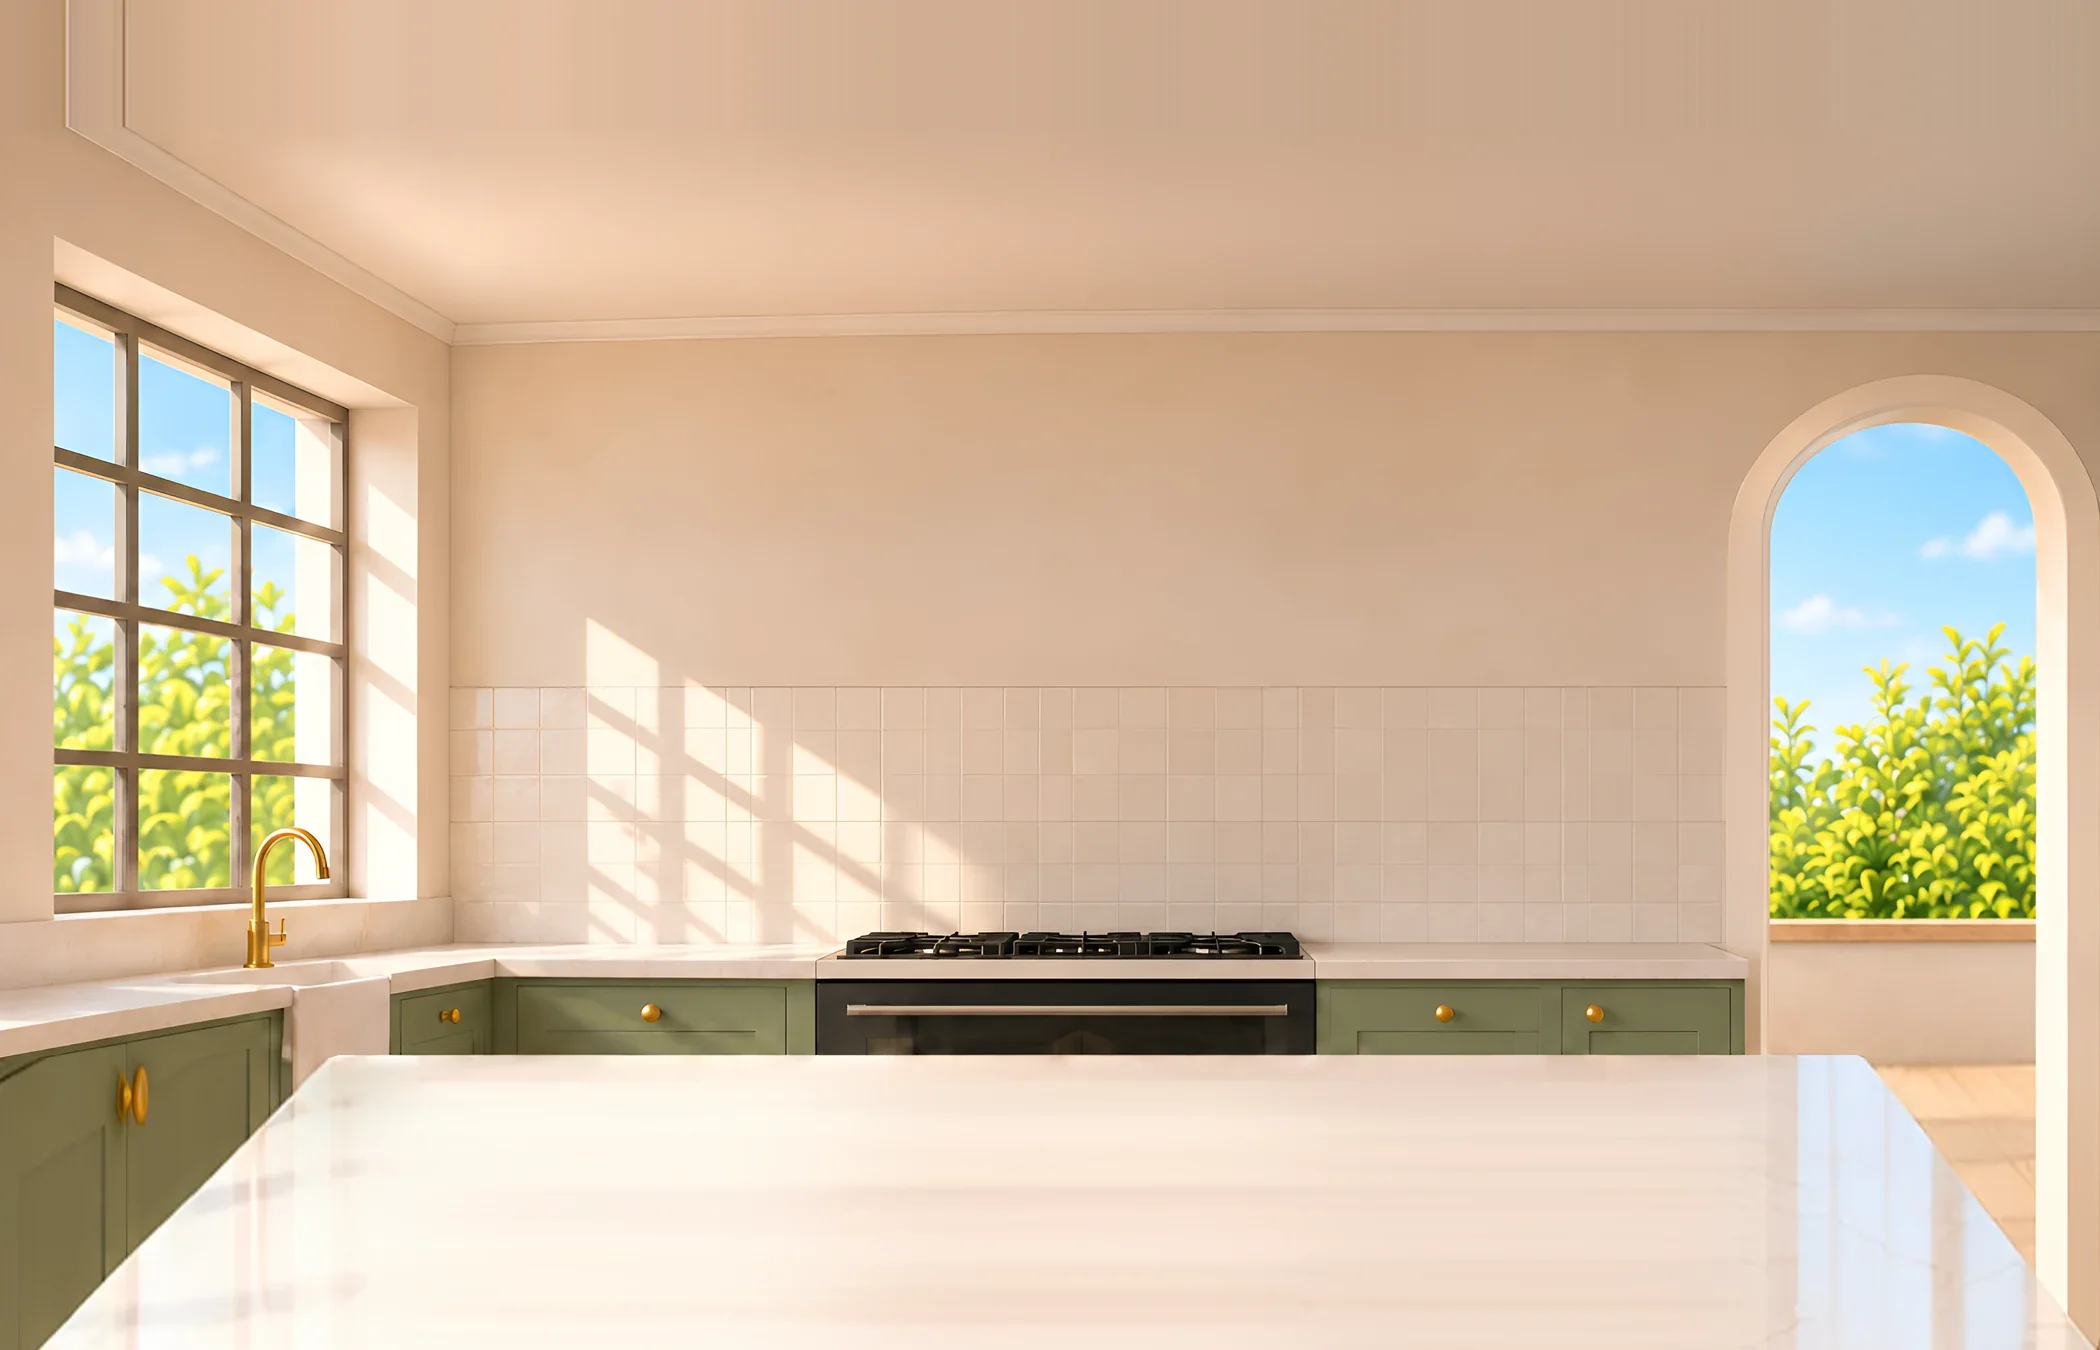
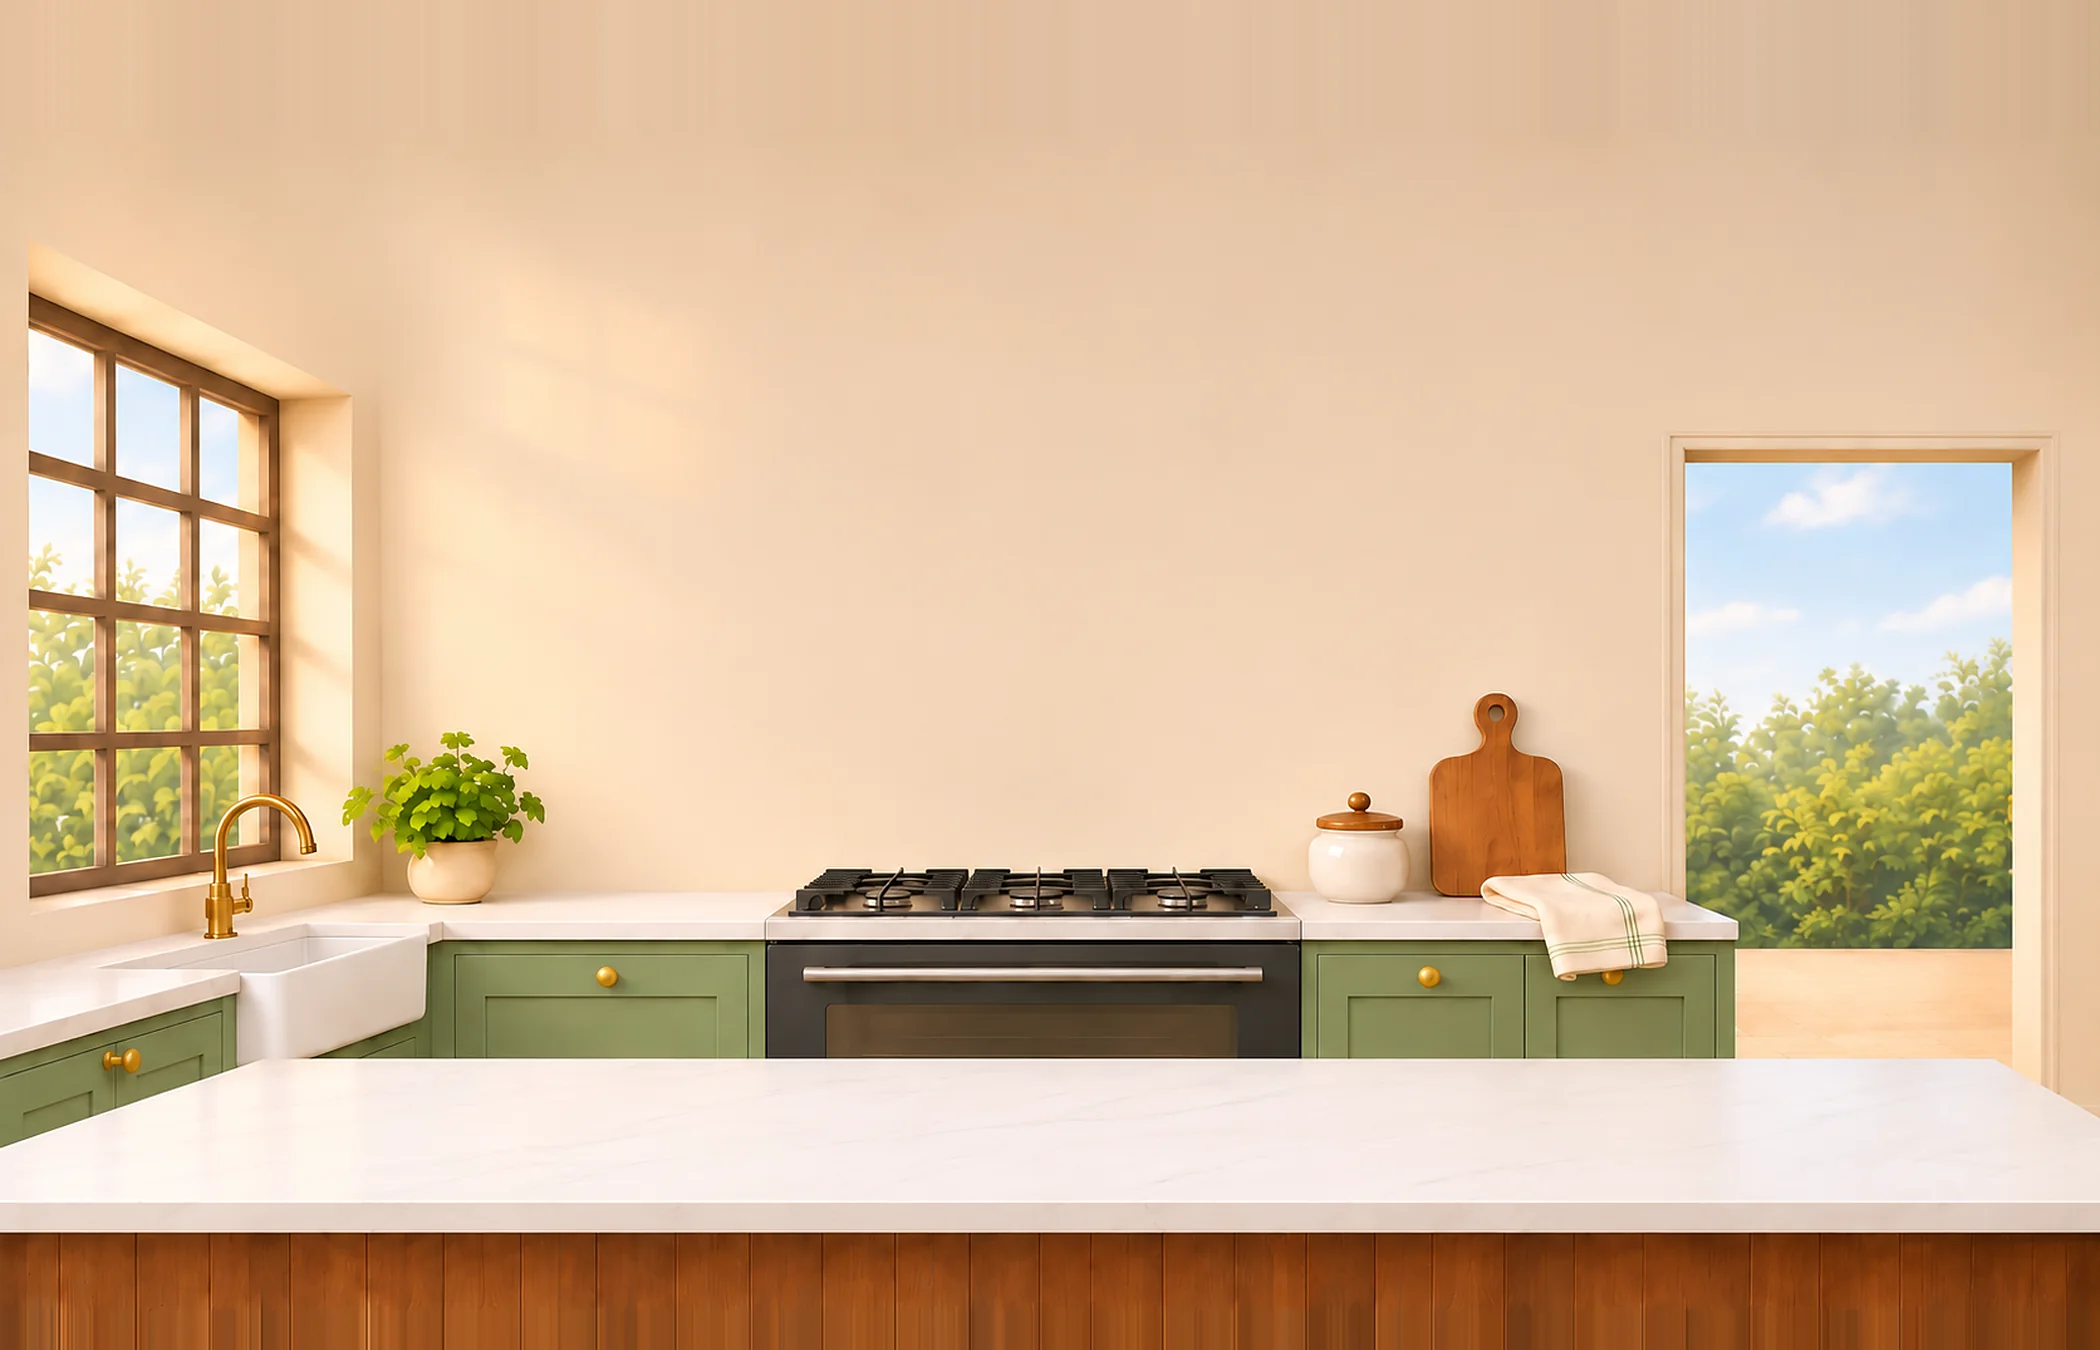
s19-serve2: the serving kitchen on its real art: KG as the tall painting (2100x1575, LANCZOS and a light sharpen, its island's back edge measured at core y 608.5), KO and KS cut as the pair, one walnut tray per person cut from tray-src, each dish at its true size class (plate, bowl, glass), every ga
Claude-Session: https://claude.ai/code/session_014xb3kSEqyUTbvHCABDzeLo

diff --git a/js/cook/serve.js b/js/cook/serve.js
@@ -7,15 +7,20 @@
  *                       top fills the lower half, the faces still in view at the top.
  *
  * Either art drops in, chosen in the settings (data/cook.json art.serve.mode, or ?kitchen=tall|two for a look):
- *   "tall"  one tall painting (KB), scrolled: it is the kitchen's picture (bg-service), its ordering view at `core`;
+ *   "tall"  one tall painting (KG), scrolled: it is the kitchen's picture (bg-service), its ordering view at `core`;
  *   "two"   two pictures, the ordering view (KO, bg-service) and the serving view (KS), crossfaded as the camera glides.
  * Every picture is cut to the kitchen master's geometry: 1 px = 1 design px, the ordering view's 1600x900 at `core` (250, 450),
  * the island's back edge at design y 608 (where the family sit: the occluder's 611). KS is the same, drawn `drop` px lower.
+ * s19-serve2 (the s19-k2 run, 11 Nov): KG 1448x1086 brought to 2100x1575 (LANCZOS and a light sharpen: no Real-ESRGAN here), its
+ * island's back edge measured at picture y 1058.5 (design 608.5, no shift needed), its front lip at about design 1015-1030: so the
+ * ordering view keeps today's 292 px of marble and the serving view (158 down) is the island's top. KO and KS: 2100 wide, each set
+ * so its back edge lands on the same world line (KO 130 px down, KS 216), the wall's top row carried on above.
  *
- * No trays in any picture: one walnut tray (KT) per person who ordered, on the island under them, put down as the camera
- * glides; each person's dish lands on their tray at the counter's angle (SD), the tray's front rim drawn again over it (decision
- * 87), the person's face circle on the rim as the asker's mark. The rest of the serve (who asked, Shabash, the thanks, the review)
- * is the caller's, unchanged (js/cook/flow.js serve, kitchenEnd).
+ * No trays in any picture: one walnut tray (KT, cut from the long tray-src: its two ends joined, about 45 x 30 cm) per person who
+ * ordered, on the island's top under them (its middle, design y 812), put down as the camera glides; each person's dish lands on
+ * their tray at its true size (a size class: a plate, a bowl, a glass; the run drew them 10-25% large), the tray's front rim drawn
+ * again over it (decision 87), the person's face circle on the rim as the asker's mark. The rest of the serve (who asked, Shabash,
+ * the thanks, the review) is the caller's, unchanged (js/cook/flow.js serve, kitchenEnd).
  *
  *   Cook.Serve.on()                      the serving kitchen is in use
  *   Cook.Serve.plan(dish, who)           a lab order's dish -> [{who, dish, n}] (one entry per person's dish)
@@ -37,22 +42,35 @@ import { Cook as CookNS } from "./ns.js";
   const DEFAULTS = {
     on: true,
     mode: "tall",
-    tall: `${DIR}kitchen-tall.webp`, // KB: 2100 wide, the ordering view's 1600x900 at core, the island carrying on below
+    tall: `${DIR}kitchen-tall.webp`, // KG: 2100x1575, the ordering view's 1600x900 at core, the island's top carrying on below
     order: `${DIR}kitchen-order.webp`, // KO: 2100x1350, the ordering view's 1600x900 at core (today's master's frame)
     serve: `${DIR}kitchen-serve.webp`, // KS: 2100x1350, the serving view's 1600x900 at core
     core: [250, 450],
     drop: 158, // design px the camera glides down (the island's back edge from y 608 to the view's middle)
     glideMs: 800,
     faceRoom: 14, // design px kept above the highest head in the serving view
-    tray: { file: `${DIR}tray.webp`, w: 400, y: 800, rim: 0.8, floor: 0.68, face: 58 },
-    // h: drawn height on the tray (design px); a dish wider than its share of the tray shrinks to it
+    // the tray (480x208, measured on it): its floor from 0.116 to its front rim's inner edge at 0.875 of its height; y: the
+    // island top's middle on KG (back edge 608, front lip about 1015)
+    tray: { file: `${DIR}tray.webp`, w: 400, y: 812, rim: 0.875, floor: 0.495, face: 58 },
+    // the size classes, as a share of the tray's width (a 45 cm tray: a 26 cm plate, a 17 cm bowl, a 7.5 cm glass; the art
+    // plan's 30 : 20 : 9); a dish wider than its share of a tray holding several shrinks to it
+    sizes: { plate: 0.58, bowl: 0.39, glass: 0.17 },
+    // per recipe (Cook.Art.servedName's): its picture, its size class and `at`, the row of its picture (a share of its height)
+    // that stands on the floor's middle: a plate's centre, a bowl's or a glass's foot
     dishes: {
-      chai: { file: `${DIR}dish-chai.webp`, h: 165 },
-      "chai-black": { file: `${DIR}dish-chai-black.webp`, h: 165 },
-      maani: { file: `${DIR}dish-maani.webp`, h: 150 },
-      daal: { file: `${DIR}dish-daar.webp`, h: 145 },
-      "eggs-fried": { file: `${DIR}dish-eggs-fried.webp`, h: 122 },
-      "eggs-boiled": { file: `${DIR}dish-eggs-boiled.webp`, h: 122 },
+      chai: { file: `${DIR}dish-chai.webp`, size: "glass", at: 0.95 },
+      "chai-black": { file: `${DIR}dish-chai-black.webp`, size: "glass", at: 0.93 },
+      maani: { file: `${DIR}dish-maani.webp`, size: "plate", at: 0.48 },
+      daal: { file: `${DIR}dish-daar.webp`, size: "bowl", at: 0.93 },
+      mishkaki: { file: `${DIR}dish-sekelo.webp`, size: "plate", at: 0.48 },
+      samosa: { file: `${DIR}dish-samosa.webp`, size: "plate", at: 0.47 },
+      chaat: { file: `${DIR}dish-chaat.webp`, size: "bowl", at: 0.93 },
+      corn: { file: `${DIR}dish-corn.webp`, size: "plate", at: 0.48 },
+      baking: { file: `${DIR}dish-naan.webp`, size: "plate", at: 0.47 },
+      chop: { file: `${DIR}dish-chop.webp`, size: "bowl", at: 0.93 },
+      // eggs keep their plate-table pictures (fried-table, boiled), on a plate
+      "eggs-fried": { file: `${DIR}dish-eggs-fried.webp`, size: "plate", at: 0.46 },
+      "eggs-boiled": { file: `${DIR}dish-eggs-boiled.webp`, size: "plate", at: 0.46 },
     },
   };
   const ISLAND = 611; // the family's line (stations.js occluder: the counter's front from design y 611 down)
@@ -69,6 +87,7 @@ import { Cook as CookNS } from "./ns.js";
     const c = Object.assign({}, DEFAULTS, own);
     c.tray = Object.assign({}, DEFAULTS.tray, own.tray || {});
     c.dishes = Object.assign({}, DEFAULTS.dishes, own.dishes || {});
+    c.sizes = Object.assign({}, DEFAULTS.sizes, own.sizes || {});
     if (urlMode) c.mode = urlMode;
     return c;
   }
@@ -94,11 +113,12 @@ import { Cook as CookNS } from "./ns.js";
   const D = () => Cook.D || { bg: 0, occ: 20 };
   const key = (name) => `serve-${name}`;
   const dishOf = (name) => {
-    const d = cfg().dishes[name];
-    if (d) return { key: key(`dish-${name}`), file: d.file, h: d.h };
-    // a dish the serve has no picture of yet: today's served picture (art.s02 served-dishes)
+    const c = cfg();
+    const d = c.dishes[name];
+    if (d) return { key: key(`dish-${name}`), file: d.file, share: c.sizes[d.size] || null, h: d.h || 140, at: d.at != null ? d.at : 0.96 };
+    // a dish the serve has no picture of yet (the pantry's basket): today's served picture (art.s02 served-dishes), its base on the floor
     const a = Cook.Art && Cook.Art.servedArt ? Cook.Art.servedArt(name) : null;
-    return a ? { key: a.key, file: a.file, h: a.drawH || 128 } : null;
+    return a ? { key: a.key, file: a.file, share: null, h: a.drawH || 128, at: 0.96 } : null;
   };
 
   /** A lab order's dish (the card's dish: R.<recipe>.make) as one entry per person's dish. */
@@ -223,7 +243,7 @@ import { Cook as CookNS } from "./ns.js";
       for (let i = 1; i < pts.length; i++) gap = Math.min(gap, pts[i].x - pts[i - 1].x);
       w = Math.min(c.tray.w, gap * 0.92, (v.right - v.left - 2 * pad) / Math.max(1, pts.length));
     }
-    const src = S.textures.exists(key("tray")) ? S.textures.get(key("tray")).getSourceImage() : { width: 480, height: 181 };
+    const src = S.textures.exists(key("tray")) ? S.textures.get(key("tray")).getSourceImage() : { width: 480, height: 208 };
     const h = (w * src.height) / src.width;
     return pts.map((p) => ({ who: p.who, x: p.x, y: c.tray.y, w, h }));
   }
@@ -246,12 +266,13 @@ import { Cook as CookNS } from "./ns.js";
     t.parts = [t.img, t.rim, t.face].filter(Boolean);
     return t;
   }
-  /** The dishes of one tray, side by side on its floor (not yet shown: they land). */
+  /** The dishes of one tray, side by side on its floor, each at its true size (not yet shown: they land). */
   function placeDishes(S, t, list) {
     const c = cfg();
     const n = list.reduce((a, e) => a + (e.n || 1), 0);
     const share = (t.w * 0.84) / Math.max(1, n);
-    const base = t.y - t.h / 2 + t.h * c.tray.floor;
+    // the floor's middle (a dish's `at` row stands on it); a dish with no size class: its base a little in front of it
+    const mid = t.y - t.h / 2 + t.h * c.tray.floor;
     let i = 0;
     const out = [];
     list.forEach((e) => {
@@ -259,14 +280,12 @@ import { Cook as CookNS } from "./ns.js";
       for (let k = 0; k < (e.n || 1); k++, i++) {
         if (!d || !S.textures.exists(d.key)) continue;
         const src = S.textures.get(d.key).getSourceImage();
-        let h = d.h;
-        let w = (h * src.width) / src.height;
-        if (w > share) {
-          h *= share / w;
-          w = share;
-        }
+        let w = d.share ? t.w * d.share : (d.h * src.width) / src.height;
+        if (w > share) w = share;
+        const h = (w * src.height) / src.width;
+        const base = d.share ? mid : mid + t.h * 0.2;
         const x = t.x + (i - (n - 1) / 2) * share;
-        const img = S.track(S.add.image(x, base, d.key).setOrigin(0.5, 0.96).setDisplaySize(w, h).setDepth(D().occ + 2 + i * 0.01).setAlpha(0));
+        const img = S.track(S.add.image(x, base, d.key).setOrigin(0.5, d.at).setDisplaySize(w, h).setDepth(D().occ + 2 + i * 0.01).setAlpha(0));
         img.restY = base;
         out.push(img);
         (Cook.servedLog = Cook.servedLog || []).push({ img, t });
